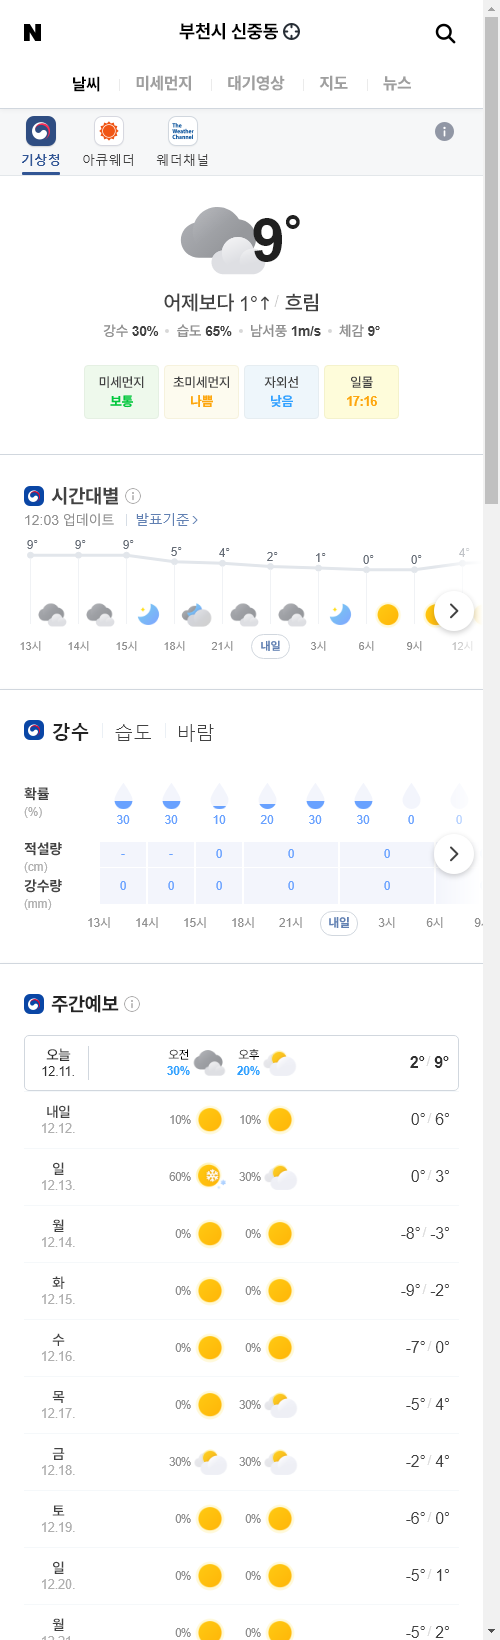
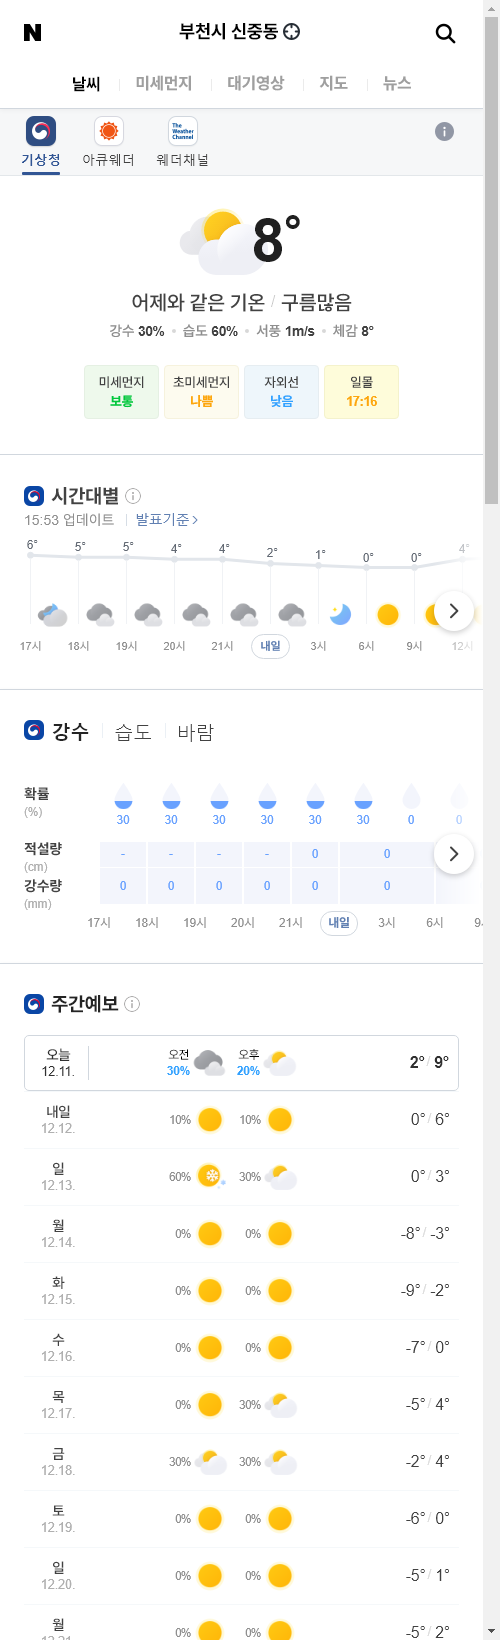
update result

diff --git a/README.md b/README.md
@@ -1,13 +1,13 @@
-##  2020-12-11 12:07:37   금요일 
-##### 날씨   -   어제보다 1° 높아요흐림  
+##  2020-12-11 16:02:57   금요일 
+##### 날씨   -   어제와 같은 기온맑음  
 <center><img src="../img/naver_weather_week.png"></center>
 ----
 ----
 ##### 지수
 <table border="1" bordercolor="blue" align = "center" >
 <tr align = "right" > <td>Item</td><td>Point</td><td>Diff</td><td>Rate</td><td>Buy</td><td>Sell</td><td>...</td>  </tr>
-<tr align = "right" > <td>KOSPI</td><td>2,770.88</td><td>24.42</td><td><font size="3" color="red" >0.89%</font> </td><td><font size="3" color="black">2,000</font></td><td><font size="3" color="black">3,000</font></td><td>0</td>  </tr>
-<tr align = "right" > <td>KOSDAQ</td><td>926.44</td><td>4.74</td><td><font size="3" color="red" >0.51%</font> </td><td><font size="3" color="black">0</font></td><td><font size="3" color="black">0</font></td><td>0</td>  </tr>
+<tr align = "right" > <td>KOSPI</td><td>2,770.06</td><td>23.6</td><td><font size="3" color="red" >0.86%</font> </td><td><font size="3" color="black">2,000</font></td><td><font size="3" color="black">3,000</font></td><td>0</td>  </tr>
+<tr align = "right" > <td>KOSDAQ</td><td>928.44</td><td>6.74</td><td><font size="3" color="red" >0.73%</font> </td><td><font size="3" color="black">0</font></td><td><font size="3" color="black">0</font></td><td>0</td>  </tr>
 </table>
 ----
 ##### 세계
@@ -16,14 +16,14 @@
 <tr align = "right" > <td>DOW</td><td>29,999.26</td><td>-69.55</td><td><font size="3" color="blue" >-0.23%</font></td><td><font size="3" color="black">0</font></td><td><font size="3" color="black">0</font></td><td>0</td>  </tr>
 <tr align = "right" > <td>NASDAQ</td><td>12,405.81</td><td>66.86</td><td><font size="3" color="red" >0.54%</font></td><td><font size="3" color="black">0</font></td><td><font size="3" color="black">0</font></td><td>0</td>  </tr>
 <tr align = "right" > <td>S&P</td><td>3,668.1</td><td>-4.72</td><td><font size="3" color="blue" >-0.13%</font></td><td><font size="3" color="black">0</font></td><td><font size="3" color="black">0</font></td><td>0</td>  </tr>
-<tr align = "right" > <td>SHANHAI</td><td>3,354.62</td><td>-18.65</td><td><font size="3" color="blue" >-0.55%</font></td><td><font size="3" color="black">0</font></td><td><font size="3" color="black">0</font></td><td>0</td>  </tr>
-<tr align = "right" > <td>INDIA</td><td>45,959.88</td><td>-143.62</td><td><font size="3" color="blue" >-0.31%</font></td><td><font size="3" color="black">0</font></td><td><font size="3" color="black">0</font></td><td>0</td>  </tr>
+<tr align = "right" > <td>SHANHAI</td><td>3,347.15</td><td>-26.13</td><td><font size="3" color="blue" >-0.77%</font></td><td><font size="3" color="black">0</font></td><td><font size="3" color="black">0</font></td><td>0</td>  </tr>
+<tr align = "right" > <td>INDIA</td><td>46,216.37</td><td>256.49</td><td><font size="3" color="red" >0.56%</font></td><td><font size="3" color="black">0</font></td><td><font size="3" color="black">0</font></td><td>0</td>  </tr>
 </table>
 ----
 ##### 시장
 <table border="1" bordercolor="blue" align = "center" >
 <tr align = "right" > <td>Item</td><td>Price</td><td>Diff</td><td>Rate</td><td>Buy</td><td>Sell</td><td>...</td>  </tr>
-<tr align = "right" > <td>USD</td><td>1,088.0</td><td>-0.1</td><td><font size="3" color="blue">-0.01%</font></td><td><font size="3" color="orangered">1,110</font></td><td><font size="3" color="black">0</font></td><td>0</td>  </tr>
+<tr align = "right" > <td>USD</td><td>1,089.0</td><td>1.0</td><td><font size="3" color="red">0.09%</font></td><td><font size="3" color="orangered">1,110</font></td><td><font size="3" color="black">0</font></td><td>0</td>  </tr>
 <tr align = "right" > <td>WTI</td><td>46.78</td><td>1.26</td><td><font size="3" color="red">2.76%</font></td><td><font size="3" color="black">29.0</font></td><td><font size="3" color="black">0</font></td><td>0</td>  </tr>
 <tr align = "right" > <td>GOLD</td><td>1,833.0</td><td>-1.0</td><td><font size="3" color="blue">-0.05%</font></td><td><font size="3" color="black">0</font></td><td><font size="3" color="black">0</font></td><td>0</td>  </tr>
 </table>
@@ -31,23 +31,23 @@
 ##### 주가
 <table border="1" bordercolor="blue" align = "center" >
 <tr align = "right" > <td>Item</td><td>Price</td><td>Diff</td><td>Rate</td><td>Purchased</td><td>Sell</td><td>Buy</td>  </tr>
-<tr align = "right" > <td>한국 전력</td><td>23,500</td><td>-300</td><td><font size="3" color="blue">-1.26%</font></td><td>25,720</td><td><font size="3" color="black">30,000</font></td><td><font size="3" color="black">14,000</font></td>  </tr>
-<tr align = "right" > <td>삼성엔지니어.</td><td>13,700</td><td>0</td><td><font size="3" color="black">0.0%</font></td><td>18,935</td><td><font size="3" color="black">20,000</font></td><td><font size="3" color="black">8,000</font></td>  </tr>
-<tr align = "right" > <td>CJ CGV</td><td>24,300</td><td>550</td><td><font size="3" color="red">2.32%</font></td><td>34,895</td><td><font size="3" color="black">36,000</font></td><td><font size="3" color="black">0</font></td>  </tr>
-<tr align = "right" > <td>아모레퍼시픽</td><td>218,500</td><td>4,500</td><td><font size="3" color="red">2.1%</font></td><td>235,350</td><td><font size="3" color="black">240,000</font></td><td><font size="3" color="black">130,000</font></td>  </tr>
-<tr align = "right" > <td>한화</td><td>26,500</td><td>700</td><td><font size="3" color="red">2.71%</font></td><td>25,550</td><td><font size="3" color="black">30,000</font></td><td><font size="3" color="black">20,000</font></td>  </tr>
-<tr align = "right" > <td>NAVER</td><td>289,000</td><td>3,000</td><td><font size="3" color="red">1.05%</font></td><td>147,200</td><td><font size="3" color="black">400,000</font></td><td><font size="3" color="black">150,000</font></td>  </tr>
-<tr align = "right" > <td>LG 화학우</td><td>378,500</td><td>-4,000</td><td><font size="3" color="blue">-1.05%</font></td><td>202,490</td><td><font size="3" color="black">500,000</font></td><td><font size="3" color="black">200,000</font></td>  </tr>
-<tr align = "right" > <td>스튜디오드래.</td><td>85,000</td><td>-100</td><td><font size="3" color="blue">-0.12%</font></td><td>81,243</td><td><font size="3" color="black">100,000</font></td><td><font size="3" color="black">78,000</font></td>  </tr>
-<tr align = "right" > <td>글로벌럭셔리</td><td>14,375</td><td>105</td><td><font size="3" color="red">0.74%</font></td><td>0</td><td><font size="3" color="black">15,000</font></td><td><font size="3" color="black">10,000</font></td>  </tr>
-<tr align = "right" > <td>QV미국IT</td><td>24,470</td><td>40</td><td><font size="3" color="red">0.16%</font></td><td>0</td><td><font size="3" color="black">30,000</font></td><td><font size="3" color="black">20,000</font></td>  </tr>
-<tr align = "right" > <td>호텔 신라</td><td>86,100</td><td>1,600</td><td><font size="3" color="red">1.89%</font></td><td>72,800</td><td><font size="3" color="black">100,000</font></td><td><font size="3" color="black">70,000</font></td>  </tr>
-<tr align = "right" > <td>S-Oil</td><td>73,700</td><td>1,700</td><td><font size="3" color="red">2.36%</font></td><td>62,842</td><td><font size="3" color="black">100,000</font></td><td><font size="3" color="black">50,000</font></td>  </tr>
-<tr align = "right" > <td>LG전자</td><td>95,000</td><td>-400</td><td><font size="3" color="blue">-0.42%</font></td><td>82,022</td><td><font size="3" color="black">100,000</font></td><td><font size="3" color="black">60,000</font></td>  </tr>
-<tr align = "right" > <td>지역난방공사</td><td>39,800</td><td>550</td><td><font size="3" color="red">1.4%</font></td><td>43,590</td><td><font size="3" color="black">60,000</font></td><td><font size="3" color="black">30,000</font></td>  </tr>
-<tr align = "right" > <td>KOEDX은행</td><td>6,325</td><td>65</td><td><font size="3" color="red">1.04%</font></td><td>5,178</td><td><font size="3" color="black">6,000</font></td><td><font size="3" color="black">4,500</font></td>  </tr>
-<tr align = "right" > <td>삼성 전자우</td><td>69,200</td><td>1,400</td><td><font size="3" color="red">2.06%</font></td><td>48,250</td><td><font size="3" color="black">56,000</font></td><td><font size="3" color="black">45,000</font></td>  </tr>
-<tr align = "right" > <td>한화에어로스.</td><td>27,200</td><td>150</td><td><font size="3" color="red">0.55%</font></td><td>25,700</td><td><font size="3" color="black">30,000</font></td><td><font size="3" color="black">24,000</font></td>  </tr>
-<tr align = "right" > <td>한국금융지주</td><td>78,500</td><td>500</td><td><font size="3" color="red">0.64%</font></td><td>0</td><td><font size="3" color="black">82,000</font></td><td><font size="3" color="black">60,000</font></td>  </tr>
+<tr align = "right" > <td>한국 전력</td><td>23,800</td><td>0</td><td><font size="3" color="black">0.0%</font></td><td>25,720</td><td><font size="3" color="black">30,000</font></td><td><font size="3" color="black">14,000</font></td>  </tr>
+<tr align = "right" > <td>삼성엔지니어.</td><td>13,650</td><td>-50</td><td><font size="3" color="blue">-0.36%</font></td><td>18,935</td><td><font size="3" color="black">20,000</font></td><td><font size="3" color="black">8,000</font></td>  </tr>
+<tr align = "right" > <td>CJ CGV</td><td>24,150</td><td>400</td><td><font size="3" color="red">1.68%</font></td><td>34,895</td><td><font size="3" color="black">36,000</font></td><td><font size="3" color="black">0</font></td>  </tr>
+<tr align = "right" > <td>아모레퍼시픽</td><td>216,000</td><td>2,000</td><td><font size="3" color="red">0.93%</font></td><td>235,350</td><td><font size="3" color="black">240,000</font></td><td><font size="3" color="black">130,000</font></td>  </tr>
+<tr align = "right" > <td>한화</td><td>26,550</td><td>750</td><td><font size="3" color="red">2.91%</font></td><td>25,550</td><td><font size="3" color="black">30,000</font></td><td><font size="3" color="black">20,000</font></td>  </tr>
+<tr align = "right" > <td>NAVER</td><td>290,000</td><td>4,000</td><td><font size="3" color="red">1.4%</font></td><td>147,200</td><td><font size="3" color="black">400,000</font></td><td><font size="3" color="black">150,000</font></td>  </tr>
+<tr align = "right" > <td>LG 화학우</td><td>380,500</td><td>-2,000</td><td><font size="3" color="blue">-0.52%</font></td><td>202,490</td><td><font size="3" color="black">500,000</font></td><td><font size="3" color="black">200,000</font></td>  </tr>
+<tr align = "right" > <td>스튜디오드래.</td><td>84,300</td><td>-800</td><td><font size="3" color="blue">-0.94%</font></td><td>81,243</td><td><font size="3" color="black">100,000</font></td><td><font size="3" color="black">78,000</font></td>  </tr>
+<tr align = "right" > <td>글로벌럭셔리</td><td>14,285</td><td>15</td><td><font size="3" color="red">0.11%</font></td><td>0</td><td><font size="3" color="black">15,000</font></td><td><font size="3" color="black">10,000</font></td>  </tr>
+<tr align = "right" > <td>QV미국IT</td><td>24,440</td><td>10</td><td><font size="3" color="red">0.04%</font></td><td>0</td><td><font size="3" color="black">30,000</font></td><td><font size="3" color="black">20,000</font></td>  </tr>
+<tr align = "right" > <td>호텔 신라</td><td>85,000</td><td>500</td><td><font size="3" color="red">0.59%</font></td><td>72,800</td><td><font size="3" color="black">100,000</font></td><td><font size="3" color="black">70,000</font></td>  </tr>
+<tr align = "right" > <td>S-Oil</td><td>73,300</td><td>1,300</td><td><font size="3" color="red">1.81%</font></td><td>62,842</td><td><font size="3" color="black">100,000</font></td><td><font size="3" color="black">50,000</font></td>  </tr>
+<tr align = "right" > <td>LG전자</td><td>95,800</td><td>400</td><td><font size="3" color="red">0.42%</font></td><td>82,022</td><td><font size="3" color="black">100,000</font></td><td><font size="3" color="black">60,000</font></td>  </tr>
+<tr align = "right" > <td>지역난방공사</td><td>39,950</td><td>700</td><td><font size="3" color="red">1.78%</font></td><td>43,590</td><td><font size="3" color="black">60,000</font></td><td><font size="3" color="black">30,000</font></td>  </tr>
+<tr align = "right" > <td>KOEDX은행</td><td>6,345</td><td>85</td><td><font size="3" color="red">1.36%</font></td><td>5,178</td><td><font size="3" color="black">6,000</font></td><td><font size="3" color="black">4,500</font></td>  </tr>
+<tr align = "right" > <td>삼성 전자우</td><td>69,300</td><td>1,500</td><td><font size="3" color="red">2.21%</font></td><td>48,250</td><td><font size="3" color="black">56,000</font></td><td><font size="3" color="black">45,000</font></td>  </tr>
+<tr align = "right" > <td>한화에어로스.</td><td>27,150</td><td>100</td><td><font size="3" color="red">0.37%</font></td><td>25,700</td><td><font size="3" color="black">30,000</font></td><td><font size="3" color="black">24,000</font></td>  </tr>
+<tr align = "right" > <td>한국금융지주</td><td>79,000</td><td>1,000</td><td><font size="3" color="red">1.28%</font></td><td>0</td><td><font size="3" color="black">82,000</font></td><td><font size="3" color="black">60,000</font></td>  </tr>
 </table>
 ----
